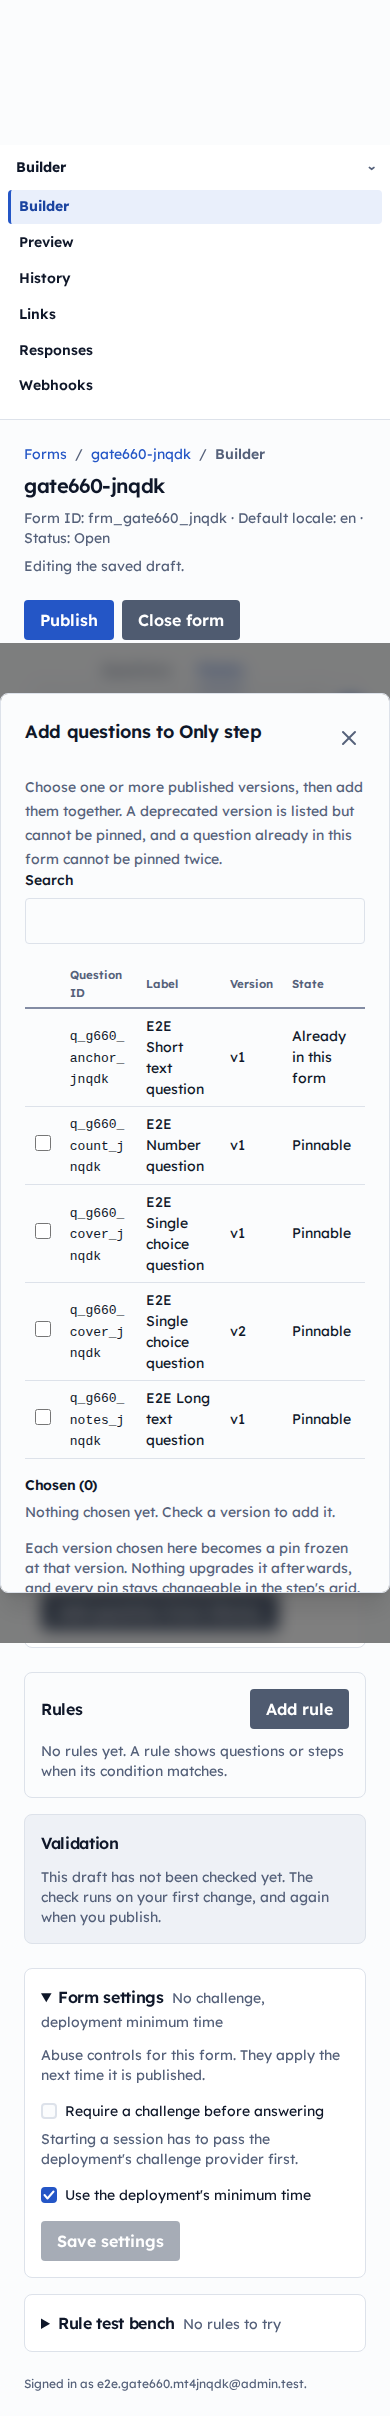
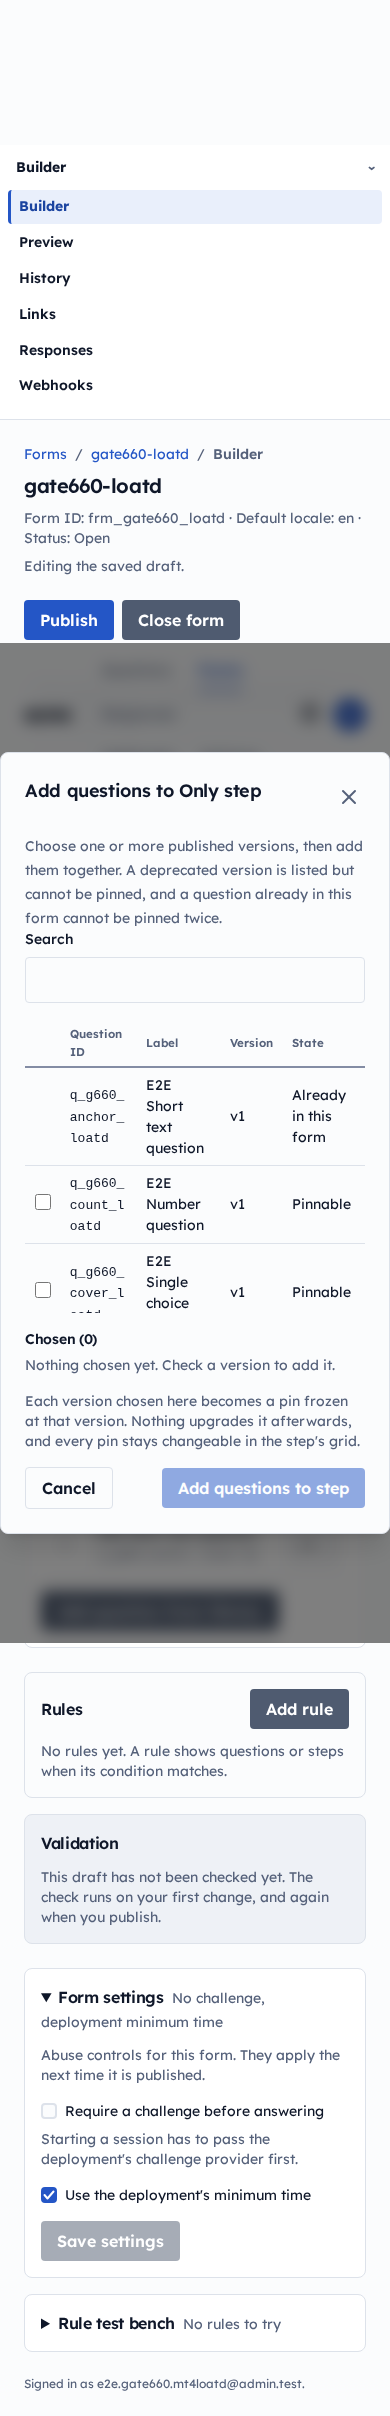
fix(admin): 660 the picker body takes a height budget so the footer holds still
A fixed cap on the table moved the fold rather than removing it: header, search,
chosen pane and pin note still summed past what the dialog allows, so "Add 3
questions to step" stayed clipped. The body now takes a proportional budget and
the table is the only part that flexes inside it, so the footer is placed by the
budget rather than by however many rows the library has.

Carries the gate frames and their README.

diff --git a/apps/admin/app/globals.css b/apps/admin/app/globals.css
@@ -2540,22 +2540,39 @@ button {
   cursor: pointer;
 }
 
-/* THE TABLE SCROLLS AND THE FOOTER DOES NOT, which is what makes the counted
-   primary a statement rather than a rumour.
+/* THE TABLE ABSORBS THE SLACK, WHICH IS WHAT KEEPS THE COUNTED PRIMARY IN VIEW.
 
    This dialog is one scrolling column, so before this rule a library of any size
    pushed "Add 3 questions to step" below the dialog's own fold: the control whose
    whole job is to say what the commit will do was reachable only by scrolling past
-   the thing it was describing. Both gate frames at 003d45f show it clipped.
+   the thing it was describing. Both gate frames at 003d45f show it clipped, and a
+   fixed cap on the table alone (c1553c3) moved the fold rather than removing it,
+   because the header, the search field, the chosen pane and the pin note still sum
+   to more than what is left.
 
-   Capping the two lists is the fix rather than restructuring the dialog, because
-   the sticky-footer shape belongs to the vendored `Dialog` and not to one of its
-   callers. The POC keeps its footer outside its scrolling body for exactly this
-   reason. The caps are proportional so they hold at any viewport, and neither
-   hides anything: both regions scroll, and the chosen pane's own entries stay
-   reachable by Tab, which scrolls them into view. */
+   So the body takes a height budget and the TABLE is the only part allowed to
+   flex inside it. Everything else keeps its natural height, which means the footer
+   is placed by the budget rather than by however many rows the library happens to
+   have. `min-block-size: 0` is the part that is not optional: a flex item's default
+   `min-height: auto` refuses to shrink below its content, so without it the table
+   would still push the footer down and `overflow` would never engage.
+
+   The budget is a proportion rather than a pixel count so it holds at any viewport,
+   and it is set here rather than by restructuring the dialog because the
+   sticky-footer shape belongs to the vendored `Dialog`, not to one of its callers.
+   The POC keeps its footer outside its scrolling body for exactly this reason.
+   Nothing is hidden either way: the table scrolls, and Tab reaches its checkboxes,
+   which scrolls them into view. */
+.qcms-picker__body {
+  display: flex;
+  flex-direction: column;
+  gap: 1rem;
+  max-block-size: 58vh;
+}
 .qcms-table--picker {
-  max-block-size: 38vh;
+  flex: 1 1 auto;
+  /* The floor, so a tall selection cannot squeeze the library out of existence. */
+  min-block-size: 6rem;
   overflow: auto;
 }
 
@@ -2574,9 +2591,12 @@ button {
   margin: 0;
   padding: 0;
   list-style: none;
-  /* Capped for the same reason the table above is: a long selection must not be what
-     pushes the button that commits it off the screen. */
-  max-block-size: 18vh;
+  /* Capped for the same reason the table above flexes: a long selection must not be
+     what pushes the button that commits it off the screen. Fixed rather than flexing,
+     because between the two lists it is the library that should give up room first -
+     the chosen list is the shorter one and the one being read at the moment of
+     commit. */
+  max-block-size: 16vh;
   overflow-y: auto;
 }
 .qcms-picker__chosen-list li {

diff --git a/apps/admin/components/forms/library-picker.tsx b/apps/admin/components/forms/library-picker.tsx
@@ -255,7 +255,7 @@ export function LibraryPicker({
         if (!open) dismiss();
       }}
     >
-      <div className="flex flex-col gap-4">
+      <div className="qcms-picker__body">
         {!library.ok && <Alert variant="error">{t("forms.picker.loadFailed")}</Alert>}
 
         {library.ok && (

diff --git a/docs/gates/pr-660/README.md b/docs/gates/pr-660/README.md
@@ -1,0 +1,25 @@
+# Gate: the add-question dialog selects several questions at once (issue 660)
+
+Approve the add-question dialog against `plan/admin-shell-poc/add-question-poc.html`, which is the approved design. **That file holds two dialogs, not one:** its `@dsCard` subtitle reads "strict single-add vs multi-select", and a variant toggle switches between `#dialog-strict` (visible on load) and `#dialog-multi` (`hidden`). These frames are built to `#dialog-multi`, which is what issue 660 asks for.
+
+| Frame | Viewport | What it claims |
+| --- | --- | --- |
+| `picker-390.png` | 390 | The dialog as it opens: a named checkbox leading each choosable row, the chosen pane already present reading "Chosen (0)", and a primary that says what the dialog is for without claiming a count |
+| `picker-chosen-390.png` | 390 | **The change**, narrow: three ticked rows, the tally, each chosen pin named `questionId@version` with its own remove control, and "Add 3 questions to step" |
+| `picker-1280.png` | 1280 | The same opening state at the standing wide width, with the Type column back that 390 drops |
+| `picker-chosen-1280.png` | 1280 | **The change**, wide. Also carries the two refusals: the anchor row reading "Already in this form", and the withdrawn sibling reading "Version 2 of this question is chosen" |
+
+## What a frame cannot show, and so is written here
+
+**The result count, the pagination and the type/status filters the POC draws are absent on purpose, and the numbers in these frames come from a client-side array.** A running tally and a counted button look identical whether they were computed by a server or by `array.length`, so these frames are indistinguishable from the finished thing and must not be read as evidence that the picker matches its POC's data model.
+
+The POC states as the premise of both its variants that they "assume a server-side search endpoint instead, with result counts, pagination and type/status filters shown as though they are server-driven". That endpoint does not exist: the builder loads the whole library on every page view and the dialog filters it in the browser. Building it is API and DB surface in a different seam and is filed as **issue 684**, which is the server-driven replacement for what these frames show.
+
+## Departures from the drawing, each argued on `components/forms/library-picker.tsx`
+
+- **One column, not two panes.** The POC's master-detail layout exists to flank a paginated server-driven list. This dialog is one column at every width the admin supports, so the chosen pane sits under the table.
+- **One row per version, and no inline version select.** The shipped picker lists versions, so the row is the pin. The POC's rows are one per question with the version chosen inline, and its intro names the resulting "latest published version" default as the open question the file was drawn to settle, then never settles it. Keeping one row per version moots that question rather than answering it.
+- **An unchoosable row carries no control**, where the POC draws a disabled checkbox. That rule predates this drawing and was argued on this screen: a disabled control is not reachable by keyboard and announces no reason, while the State cell says the reason in words.
+- **The table scrolls so the footer does not move.** The counted primary is the point of the dialog, so it is placed by a height budget rather than by however many rows the library happens to have.
+
+Captured by `apps/admin/e2e/gate-660.pw.ts`, one frame per test, so `--grep picker-chosen-1280` re-shoots exactly one.
